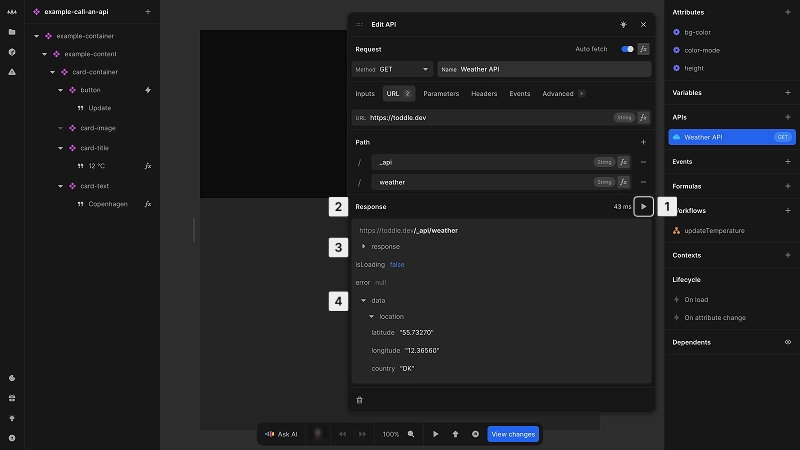
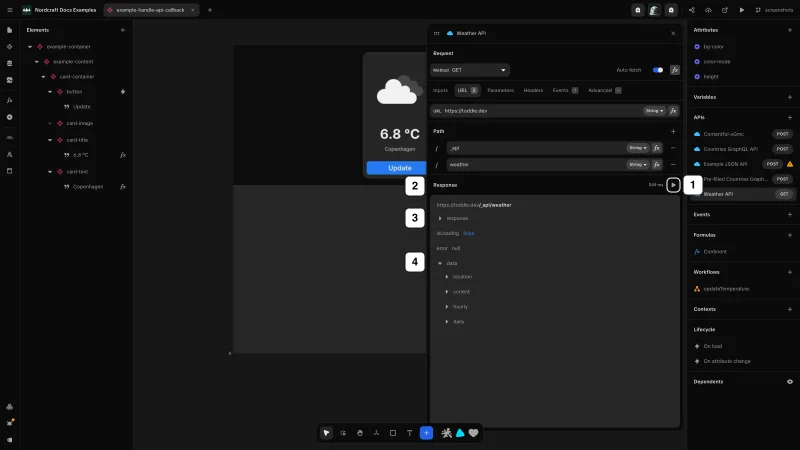
Testing APIs

diff --git a/docs/connecting-data/working-with-apis/test-an-api-request.screenshot.ts b/docs/connecting-data/working-with-apis/test-an-api-request.screenshot.ts
@@ -1,0 +1,44 @@
+import { defineScreenshot } from '@/scripts/capture-screenshots'
+import type { Page } from 'playwright'
+
+// Placeholder script for test-an-api-request.webp
+export default defineScreenshot({
+  path: '/projects/docs_examples/branches/screenshots/components/example-handle-api-callback?mode=design&canvas-tool=select&canvas-width=800&selection=apis.Weather%2520API&rightpanel=style',
+  setup: async (page: Page) => {
+    await page.waitForTimeout(500)
+  },
+  annotations: [
+    {
+      type: 'badge',
+      x: 683,
+      y: 175,
+      text: '1'
+    },
+    {
+      type: 'badge',
+      x: 405,
+      y: 176,
+      text: '2'
+    },
+    {
+      type: 'badge',
+      x: 405,
+      y: 208,
+      text: '3'
+    },
+    {
+      type: 'badge',
+      x: 405,
+      y: 252,
+      text: '4'
+    },
+    {
+      type: 'box',
+      x: 667,
+      y: 178,
+      width: 13,
+      height: 14,
+      rx: 4
+    }
+  ],
+})
